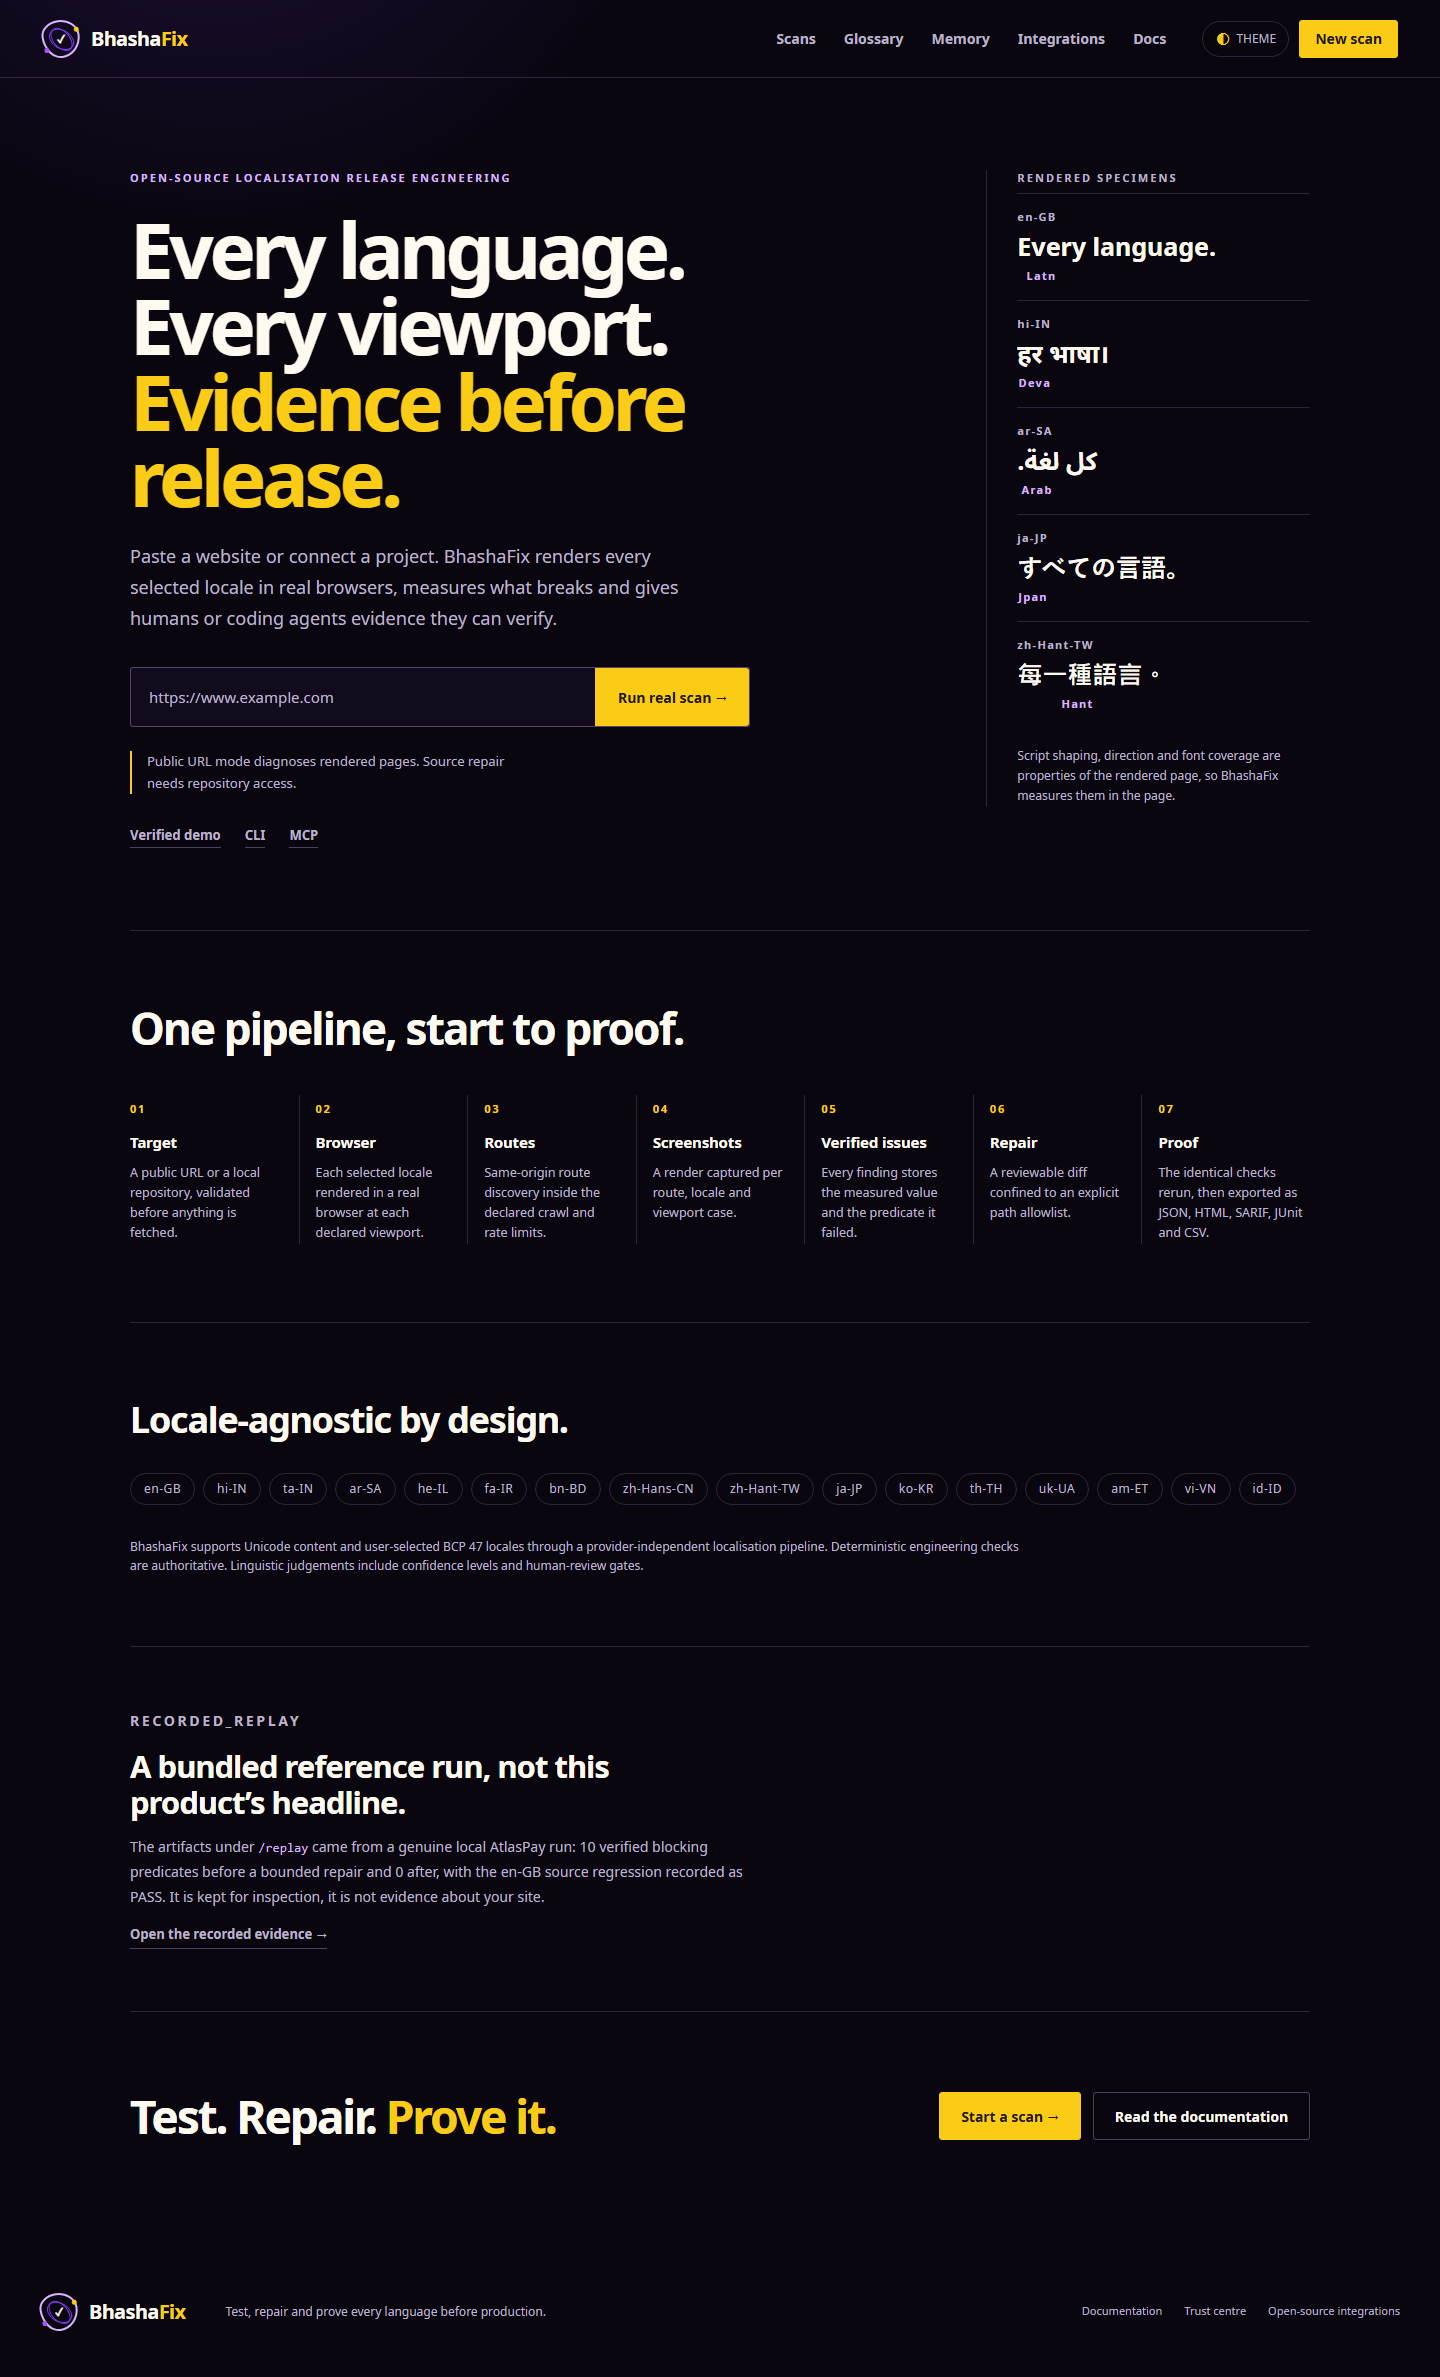
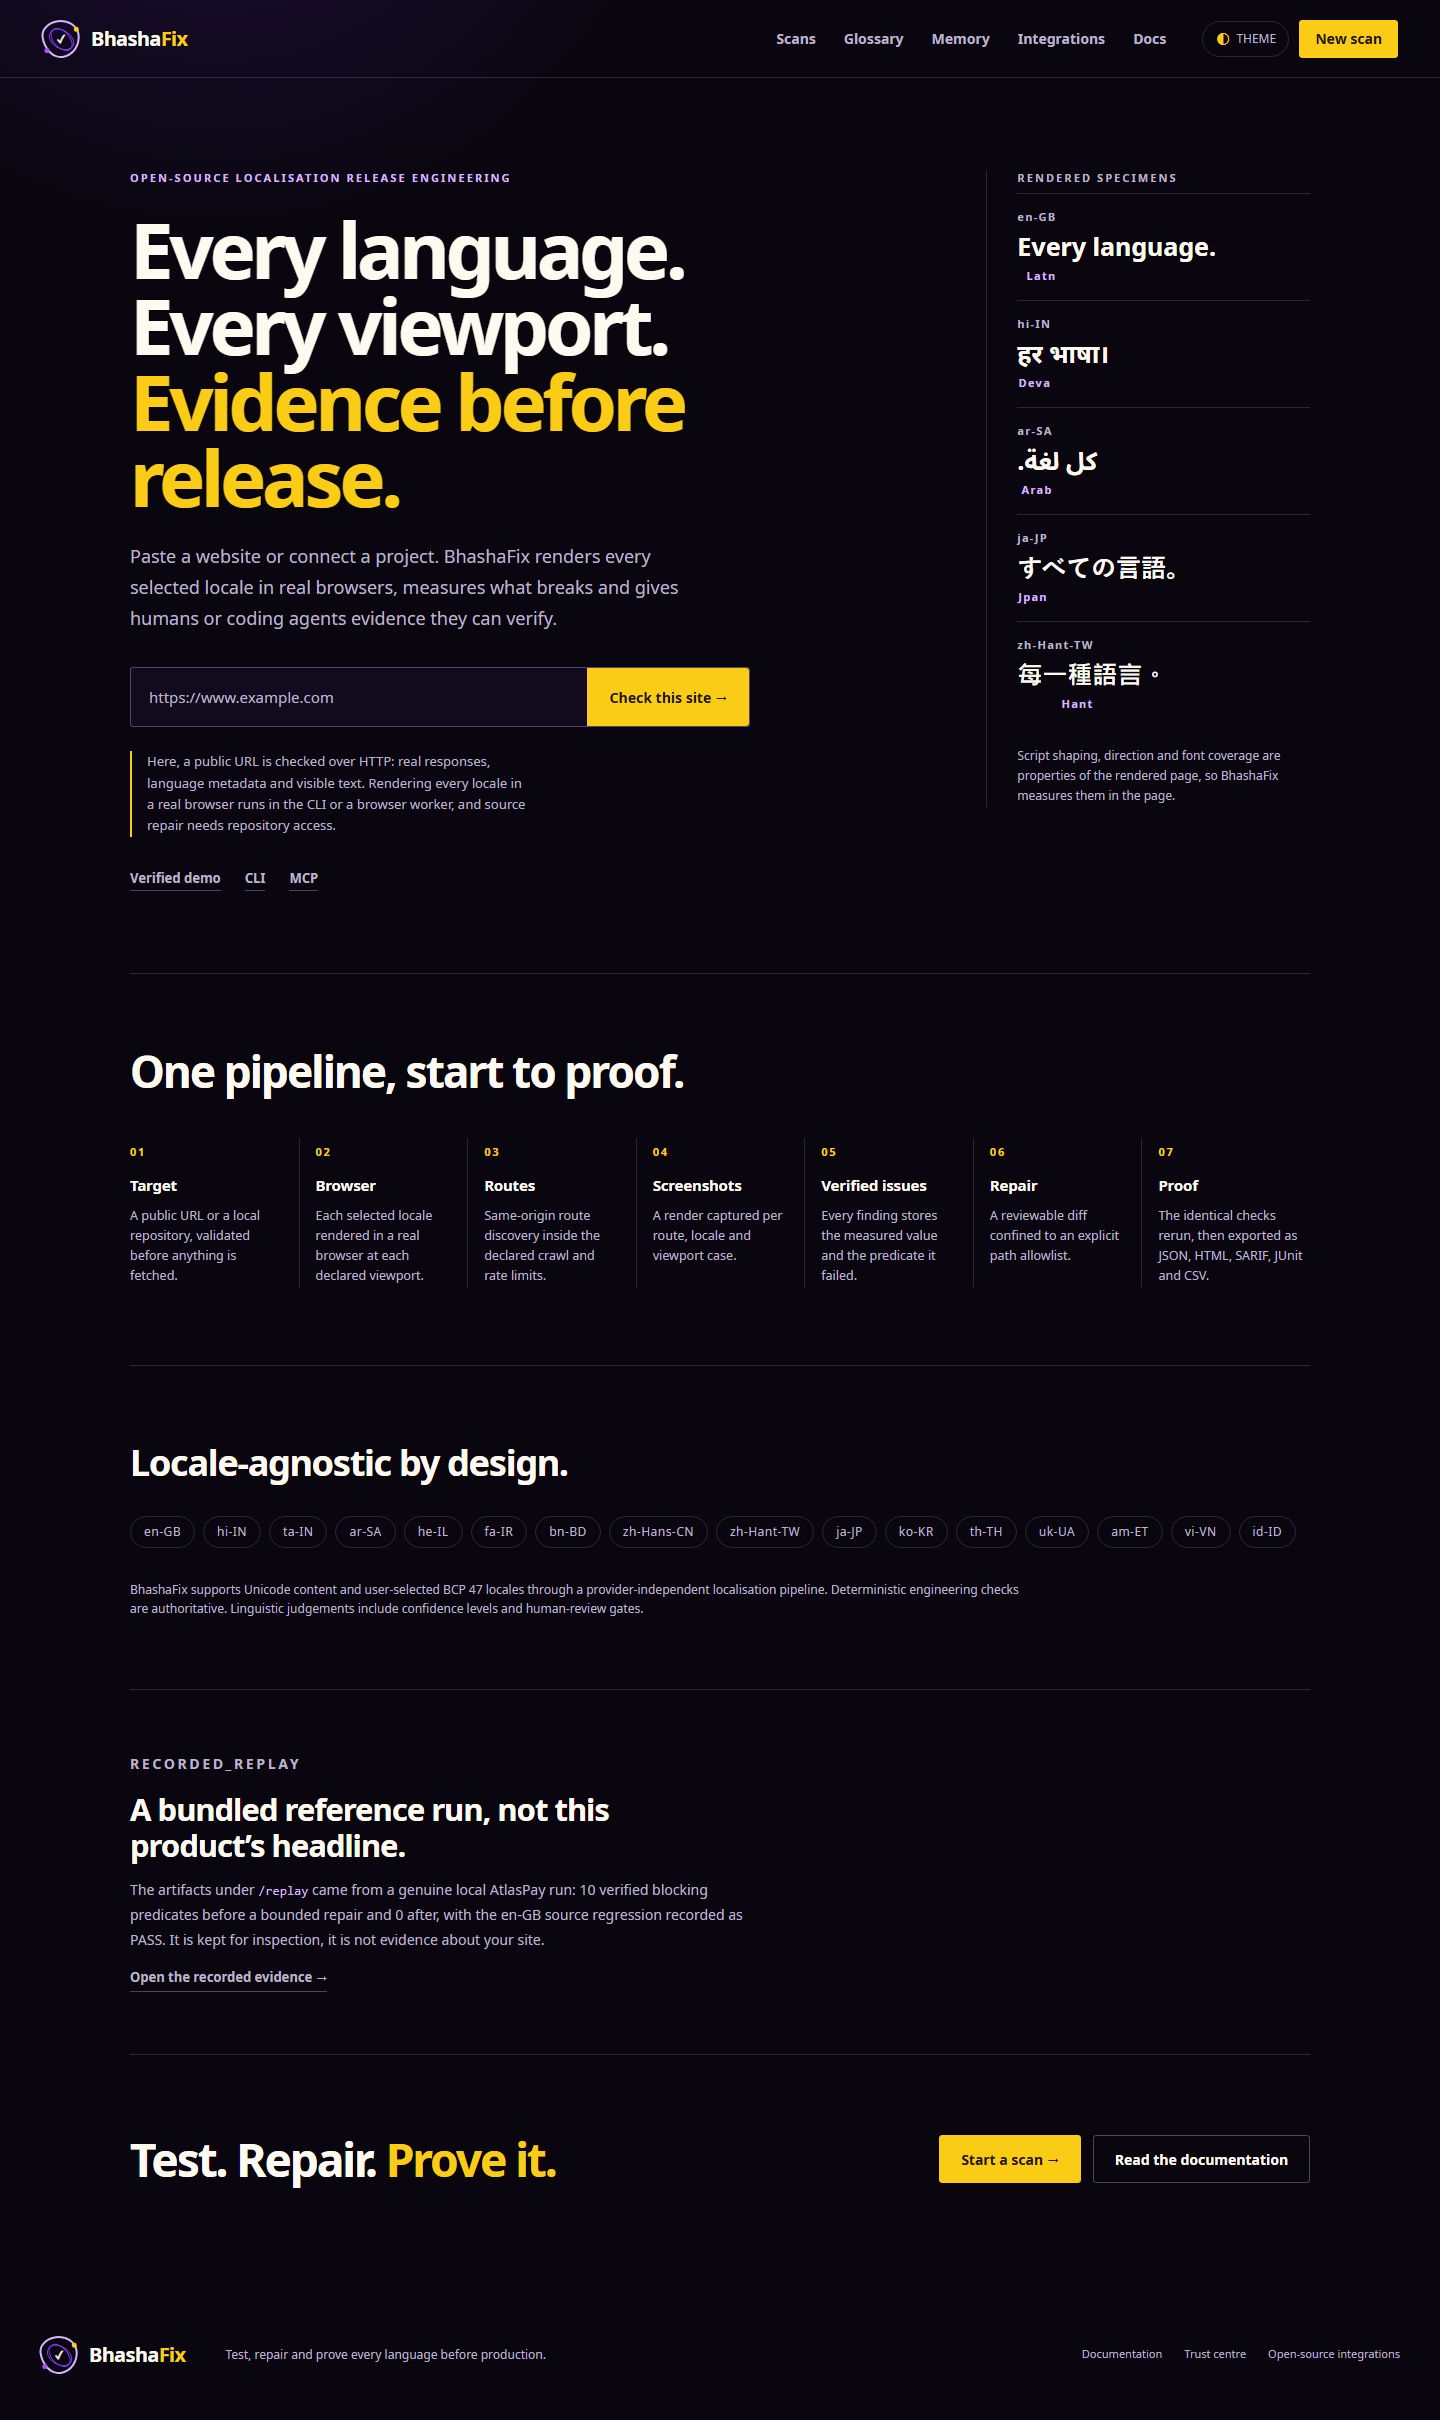
fix: stop the hosted check implying it renders in a browser
The hosted path performs static HTTP inspection, but the button said
"Run real scan", the trust line said it "diagnoses rendered pages" and
the result badge said only "REAL HTTP RESPONSES". All three implied a
browser render that never happens on Vercel.

The action is now "Check this site", the trust line states exactly what
the hosted check covers and where browser rendering actually runs, and
the badge reads "NO BROWSER".

Add a handoff instead of a disclaimer: the result now prints the exact
bhashafix scan command for the URL and locales just submitted, so the
next step is one copy away.

I attempted to run Chromium inside the Vercel function first, using
@sparticuz/chromium with playwright-core. It does not build:
playwright-core 1.62 lazily requires chromium-bidi/lib/cjs/*, which the
current chromium-bidi no longer exposes, so the route cannot be bundled.
That attempt is fully reverted rather than left half-wired.

diff --git a/app/product.tsx b/app/product.tsx
@@ -273,10 +273,12 @@ export function LandingPage() {
               onChange={(event) => setUrl(event.target.value)}
               required
             />
-            <button type="submit">Run real scan →</button>
+            <button type="submit">Check this site →</button>
           </form>
           <p className="hero-truth">
-            Public URL mode diagnoses rendered pages. Source repair needs
+            Here, a public URL is checked over HTTP: real responses, language
+            metadata and visible text. Rendering every locale in a real browser
+            runs in the CLI or a browser worker, and source repair needs
             repository access.
           </p>
           <ul className="hero-secondary">
@@ -855,7 +857,7 @@ export function NewScanPage() {
                 </select>
               </label>
               <button className="button real-scan-submit" disabled={running}>
-                {running ? "Checking the real site…" : "Run real scan →"}
+                {running ? "Checking the real site…" : "Check this site →"}
               </button>
             </div>
 
@@ -1957,7 +1959,7 @@ function LivePublicScanResult({ result }: { result: LiveScanResult }) {
     <section className="live-scan-result" aria-labelledby="live-result-title">
       <header>
         <div>
-          <span className="live-badge">{result.origin} · REAL HTTP RESPONSES</span>
+          <span className="live-badge">{result.origin} · REAL HTTP RESPONSES · NO BROWSER</span>
           <h2 id="live-result-title">Here is exactly what BhashaFix found.</h2>
           <p>
             {result.target} · completed{" "}
@@ -1965,6 +1967,14 @@ function LivePublicScanResult({ result }: { result: LiveScanResult }) {
               ? result.completedAt
               : completed.toLocaleTimeString()}
           </p>
+        </div>
+        <div className="browser-handoff">
+          <span>RENDER THIS IN A REAL BROWSER</span>
+          <code>{`bhashafix scan --url ${result.target} --locales ${result.requestedLocales.join(",")} --viewports mobile,desktop`}</code>
+          <small>
+            Runs Chromium locally: layout measurement, axe, screenshots and a
+            persisted scan ID. None of that ran here.
+          </small>
         </div>
         <div className="live-result-verdict">
           <small>BLOCKING IN CHECKS RUN</small>

diff --git a/tests/e2e/product.spec.ts b/tests/e2e/product.spec.ts
@@ -211,8 +211,8 @@ test("real public scan UI shows exact routes, evidence and honest coverage", asy
   await page.getByPlaceholder("https://www.mozilla.org").fill(
     "https://product.example",
   );
-  await page.getByRole("button", { name: "Run real scan →" }).click();
-  await expect(page.getByText("HTTP_PREFLIGHT · REAL HTTP RESPONSES")).toBeVisible();
+  await page.getByRole("button", { name: "Check this site →" }).click();
+  await expect(page.getByText("HTTP_PREFLIGHT · REAL HTTP RESPONSES · NO BROWSER")).toBeVisible();
   await expect(page.getByText("Routes actually fetched")).toBeVisible();
   await expect(page.getByRole("cell", { name: "/pricing" })).toBeVisible();
   await expect(page.getByText("missing page lang")).toBeVisible();

diff --git a/app/globals.css b/app/globals.css
@@ -4350,3 +4350,34 @@ pre {
     width: 100%;
   }
 }
+
+/* Handoff from the hosted HTTP check to a real browser run. */
+.browser-handoff {
+  display: flex;
+  flex-direction: column;
+  gap: 8px;
+  padding: 16px 18px;
+  border: 1px solid var(--border);
+  border-radius: var(--radius-sm);
+  max-width: 100%;
+}
+
+.browser-handoff > span {
+  font-size: 11px;
+  letter-spacing: 0.14em;
+  color: var(--saffron-500, #f4c430);
+}
+
+.browser-handoff > code {
+  font-family: "SFMono-Regular", Consolas, "Liberation Mono", monospace;
+  font-size: 12.5px;
+  line-height: 1.6;
+  overflow-x: auto;
+  max-width: 100%;
+}
+
+.browser-handoff > small {
+  color: var(--muted);
+  font-size: 12px;
+  line-height: 1.5;
+}
